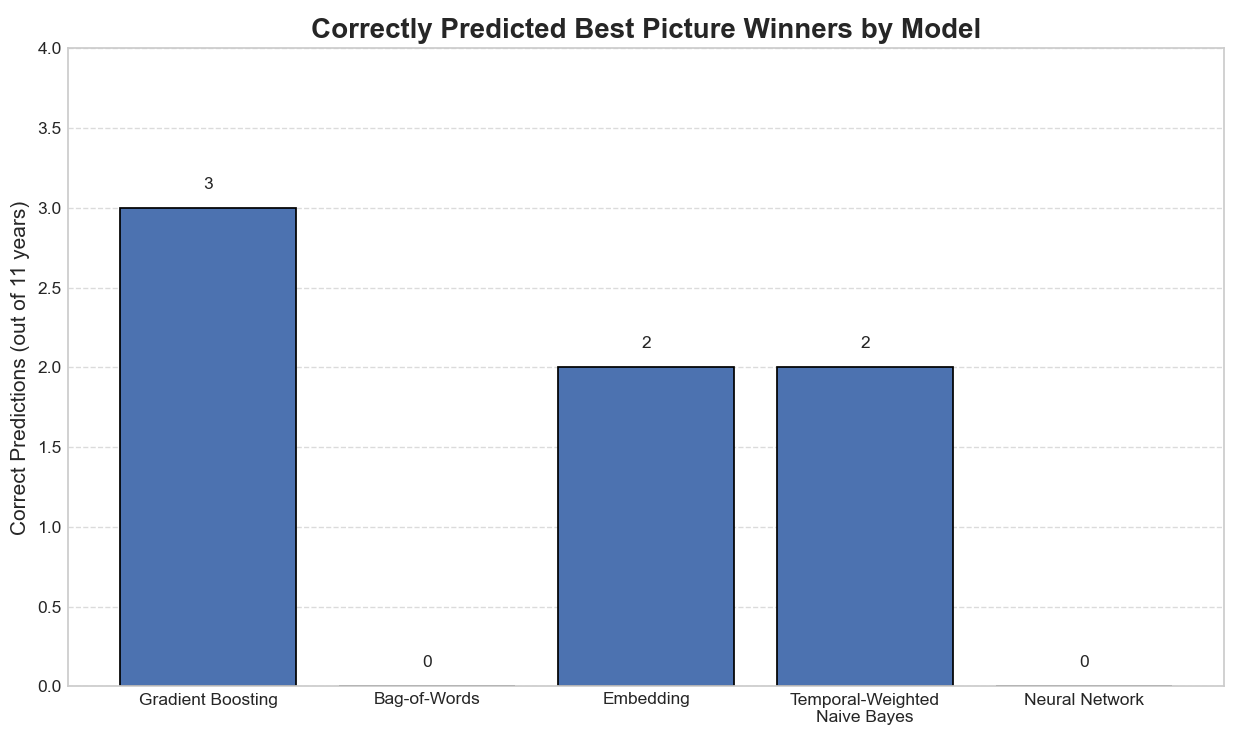
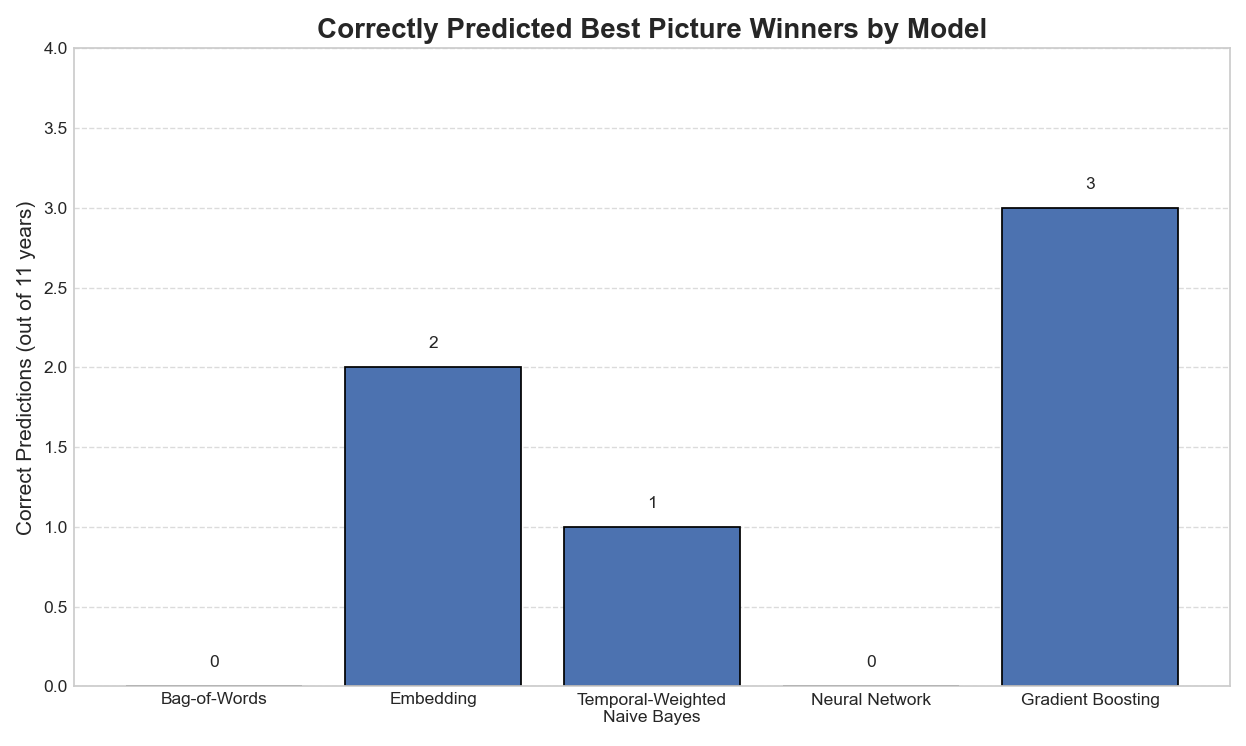
Update README and bar plot

diff --git a/data/Visuals/bar-plot.py b/data/Visuals/bar-plot.py
@@ -5,13 +5,13 @@ plt.style.use("seaborn-v0_8-whitegrid")
 
 # Model names and correct prediction counts
 models = [
-    "Gradient Boosting",
     "Bag-of-Words",
     "Embedding",
     "Temporal-Weighted\nNaive Bayes",
-    "Neural Network"
+    "Neural Network",
+    "Gradient Boosting"
 ]
-correct_predictions = [3, 0, 2, 2, 0]
+correct_predictions = [0, 2, 1, 0, 3]
 
 # Create the bar chart
 fig, ax = plt.subplots(figsize=(10, 6))
